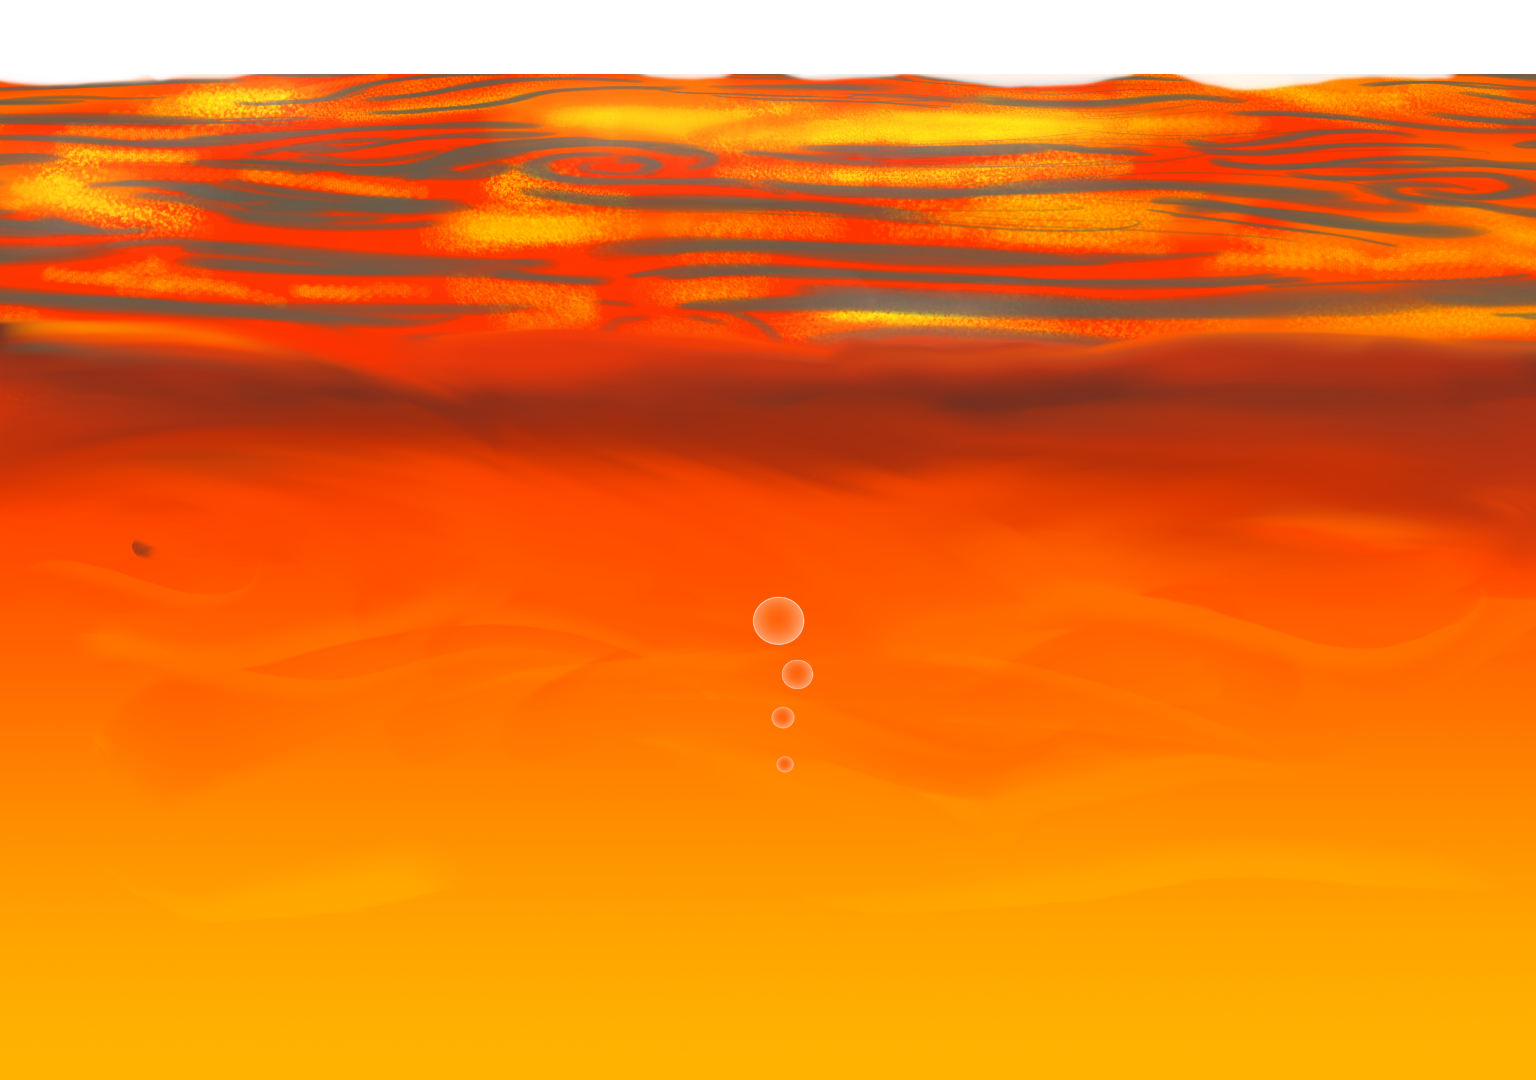
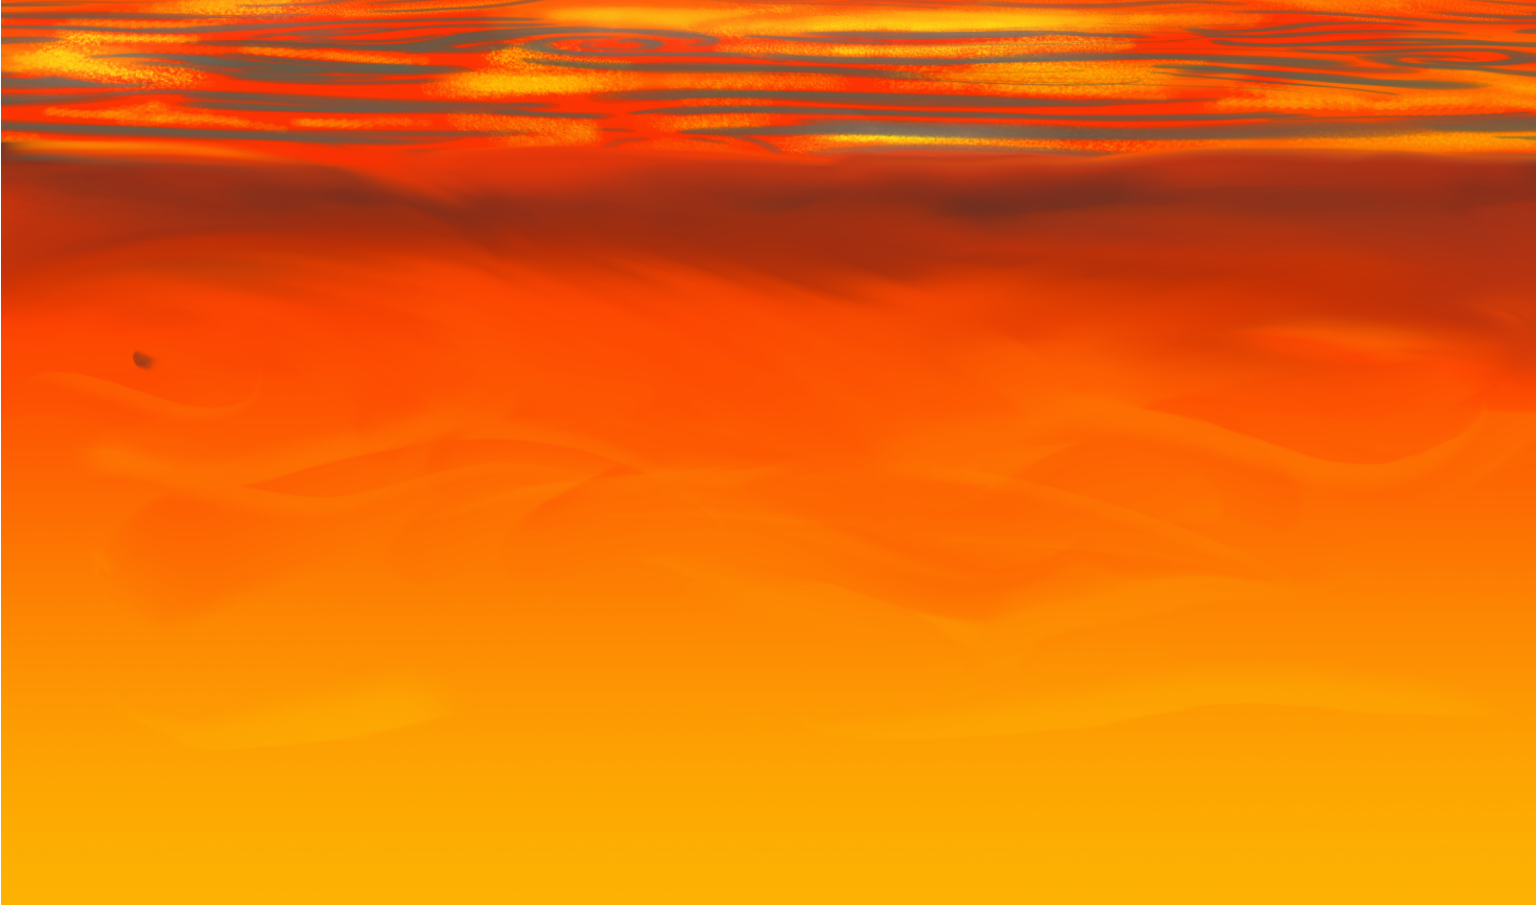
added lava glow and continuation textures

diff --git a/MountSputnik/core/src/beigegang/mountsputnik/GamingMode.java b/MountSputnik/core/src/beigegang/mountsputnik/GamingMode.java
@@ -66,6 +66,8 @@ public class GamingMode extends ModeController {
      */
     protected static final String LEVEL_NAMES[] = {"tutorial", "canyon", "waterfall", "volcano", "mountain", "sky", "space"}; //TODO: change second canyon to waterfall
     protected static final String LAVA_FILE = "assets/lava.png";
+    protected static final String LAVA_GLOW_FILE = "assets/lavaGlow.png";
+    protected static final String LAVA_CONT_FILE = "assets/lavaCont.png";
     protected static final String UI_FILE = "assets/HUD4timelessNoBackground.png";
     protected static final String[] LEVEL_LABEL_FILES = {"assets/Tutorial.png", "assets/Canyon.png", "assets/Canyon.png", "assets/Canyon.png", "assets/Canyon.png", "assets/Skycloud.png", "assets/Canyon.png"};
     protected static final String LOGO_FILE = "Menu/StartMenu/Logo Only.png";
@@ -123,6 +125,8 @@ public class GamingMode extends ModeController {
     protected static TextureRegion edge;
     protected static TextureRegion ground;
     protected static TextureRegion lavaTexture;
+    protected static TextureRegion lavaGlowTexture; 
+    protected static TextureRegion lavaContTexture;
     protected static TextureRegion glowTexture;
     protected static TextureRegion staticObstacle;
     protected static FilmStrip fallingObstacle;
@@ -236,6 +240,10 @@ public class GamingMode extends ModeController {
         assets.add(LOGO_FILE);
         manager.load(LAVA_FILE, Texture.class);
         assets.add(LAVA_FILE);
+        manager.load(LAVA_GLOW_FILE, Texture.class);
+        assets.add(LAVA_GLOW_FILE);
+        manager.load(LAVA_CONT_FILE, Texture.class);
+        assets.add(LAVA_CONT_FILE);
         manager.load(GLOW_FILE, Texture.class);
         assets.add(GLOW_FILE);
 
@@ -301,6 +309,8 @@ public class GamingMode extends ModeController {
         edge = createTexture(manager, "assets/"+levelName+"/SurfaceEdge.png", false);
         ground = createTexture(manager, "assets/"+levelName+"/LevelStart.png", false);
         lavaTexture = createTexture(manager, LAVA_FILE, false);
+        lavaGlowTexture = createTexture(manager, LAVA_GLOW_FILE, false);
+        lavaContTexture = createTexture(manager, LAVA_CONT_FILE, false);
         glowTexture = createTexture(manager, GLOW_FILE, false);
         staticObstacle = createTexture(manager, "assets/"+levelName+"/StaticObstacle.png", false);
         fallingObstacle = createFilmStrip(manager, "assets/"+levelName+"/Rockbust_Animation.png", 1, 5, 5);
@@ -1552,8 +1562,12 @@ public class GamingMode extends ModeController {
 
         if (risingObstacle != null) {
             float lavaOrigin = risingObstacle.getHeight() * scale.y -
-                    canvas.getHeight() + 50;
+                    canvas.getHeight();
+            canvas.draw(lavaGlowTexture, Color.WHITE, canvas.getWidth() / 4, lavaOrigin+canvas.getHeight(), canvas.getWidth() * 3 / 4, canvas.getHeight());
             canvas.draw(risingObstacle.getTexture(), Color.WHITE, canvas.getWidth() / 4, lavaOrigin, canvas.getWidth() * 3 / 4, canvas.getHeight());
+            while((lavaOrigin-=canvas.getHeight())>0){
+            	canvas.draw(lavaContTexture, Color.WHITE, canvas.getWidth() / 4, lavaOrigin, canvas.getWidth() * 3 / 4, canvas.getHeight());
+            }
         }
         canvas.end();
         //draw the obstacle warnings.
